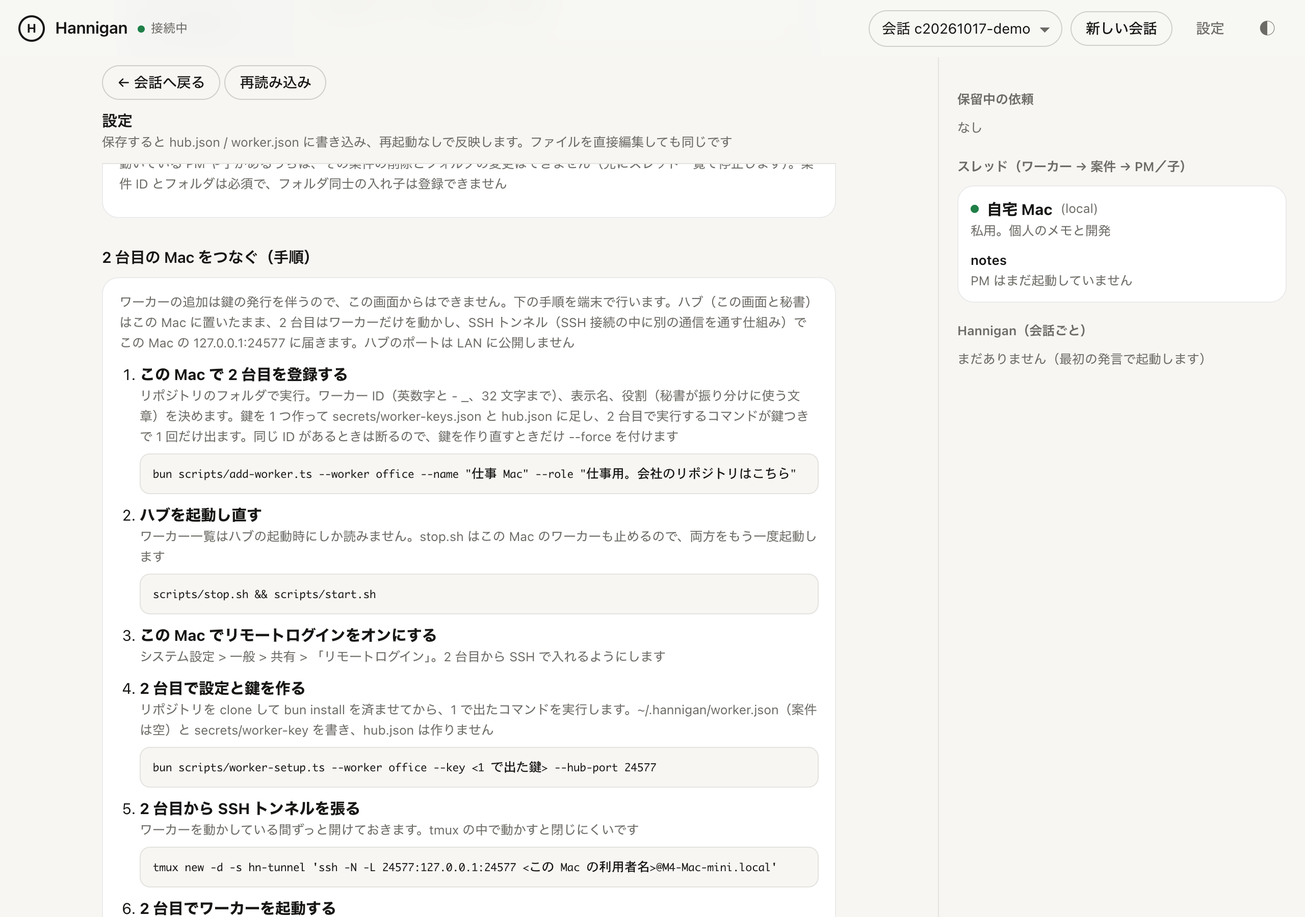
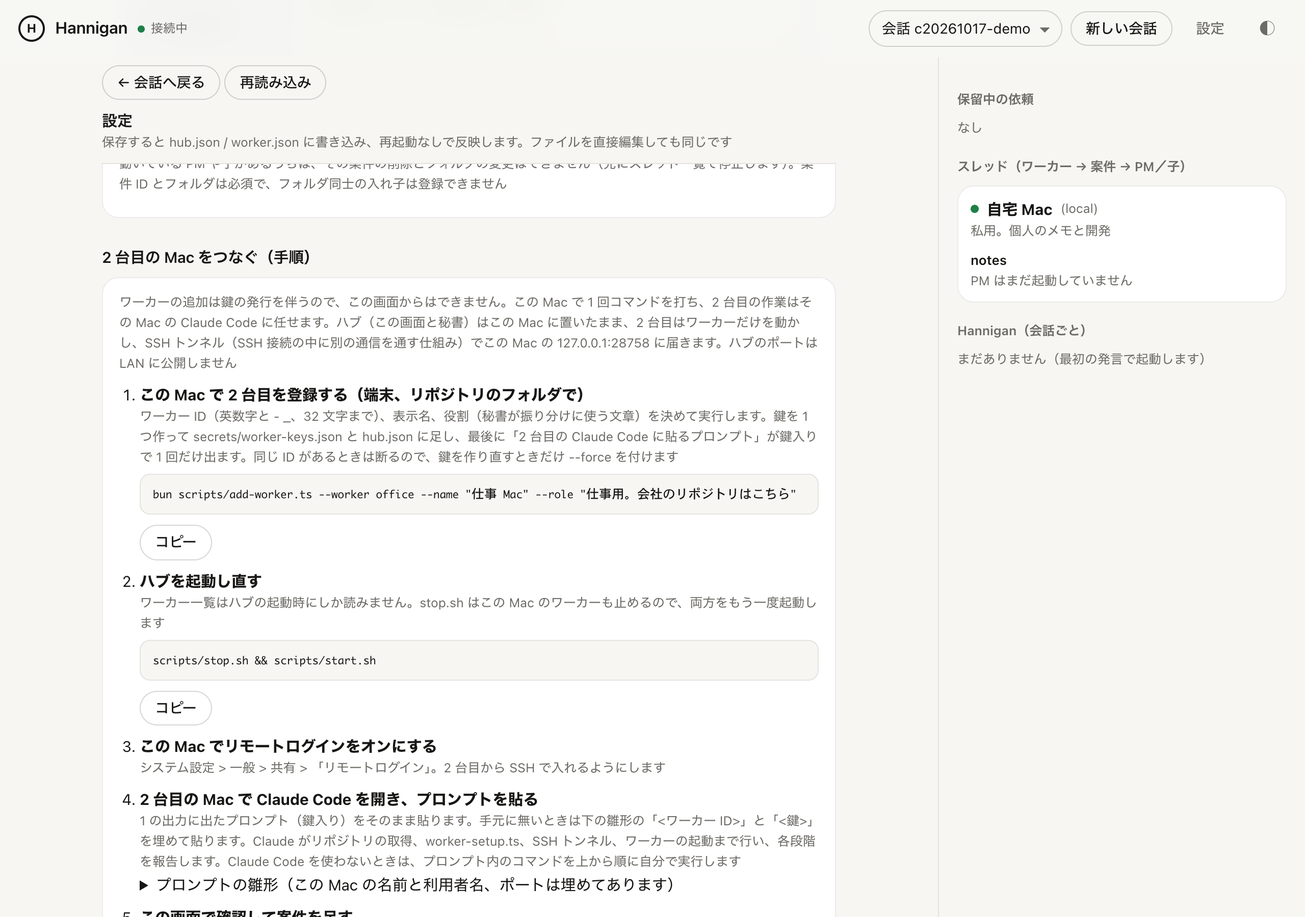
Phase 3j: 2 台目の設定を、その Mac の Claude Code に貼るプロンプトで任せる
- shared/second-mac-prompt.ts: 2 台目の Claude Code 向けプロンプト。リポジトリ取得、worker-setup.ts、SSH の疎通確認（鍵認証の案内）、
  tmux での SSH トンネル、/health の確認、start.sh worker、ログ確認、報告まで。sudo・鍵生成・削除は実行前に確認。やらないことも明記
- scripts/add-worker.ts は最後に鍵入りのプロンプトを 1 回だけ表示する
- GET /api/settings に second_mac（ホスト名・利用者名・ポート・雛形）を追加。雛形の ID と鍵はプレースホルダのまま
- 設定画面の手順カードを、1 台目のコマンド → ハブ再起動 → リモートログイン → 2 台目の Claude にプロンプトを貼る → 画面で確認、に組み直し、
  コマンドと雛形に「コピー」ボタンを付けた
- 単体 second-mac-prompt.test.ts を追加（105 件通過）、設定の通し 8 件通過。マニュアル 11 章・設計書 01 §25・CHANGELOG 3j を更新

diff --git a/web/index.html b/web/index.html
@@ -564,33 +564,40 @@ function loadSettings() {
     renderSecondMacGuide(root, r);
   });
 }
-// how to add another Mac as a worker (Phase 3: ssh tunnel + a key issued on this Mac; docs/manual 11 章)
+// how to add another Mac as a worker (Phase 3): a key issued on this Mac, then Claude Code on the other Mac does the
+// rest from a prompt (shared/second-mac-prompt.ts; docs/manual 11 章)
+function copyBtn(getText) {
+  const b = el('button', null, 'コピー'); b.type = 'button';
+  b.onclick = () => { navigator.clipboard.writeText(getText()).then(() => { b.textContent = 'コピーしました'; setTimeout(() => { b.textContent = 'コピー'; }, 1500); }, () => { b.textContent = 'コピーできませんでした（手で選択してください）'; }); };
+  return b;
+}
 function renderSecondMacGuide(root, r) {
-  const port = (r.fixed && r.fixed.listen && r.fixed.listen.port) || 8800;
-  const hn = r.fixed && r.fixed.hostname; const host = hn ? (hn.includes('.') ? hn : hn + '.local') : '<この Mac のホスト名か IP>';
+  const sm = r.second_mac || {};
+  const port = sm.port || (r.fixed && r.fixed.listen && r.fixed.listen.port) || 8800;
   root.append(el('h2', null, '2 台目の Mac をつなぐ（手順）'));
   const c = el('div', 'card guide');
-  c.append(el('div', 'role', 'ワーカーの追加は鍵の発行を伴うので、この画面からはできません。下の手順を端末で行います。ハブ（この画面と秘書）はこの Mac に置いたまま、2 台目はワーカーだけを動かし、SSH トンネル（SSH 接続の中に別の通信を通す仕組み）でこの Mac の 127.0.0.1:' + port + ' に届きます。ハブのポートは LAN に公開しません'));
-  const step = (title, body, cmd) => { const li = el('li'); li.append(el('b', null, title), el('div', 'hint', body)); if (cmd) li.append(el('pre', null, cmd)); return li; };
+  c.append(el('div', 'role', `ワーカーの追加は鍵の発行を伴うので、この画面からはできません。この Mac で 1 回コマンドを打ち、2 台目の作業はその Mac の Claude Code に任せます。ハブ（この画面と秘書）はこの Mac に置いたまま、2 台目はワーカーだけを動かし、SSH トンネル（SSH 接続の中に別の通信を通す仕組み）でこの Mac の 127.0.0.1:${port} に届きます。ハブのポートは LAN に公開しません`));
+  const step = (title, body, cmd) => { const li = el('li'); li.append(el('b', null, title), el('div', 'hint', body)); if (cmd) { const pre = el('pre', null, cmd); li.append(pre); const bb = el('div', 'btns'); bb.append(copyBtn(() => cmd)); li.append(bb); } return li; };
   const a = el('ol');
+  const addCmd = 'bun scripts/add-worker.ts --worker office --name "仕事 Mac" --role "仕事用。会社のリポジトリはこちら"';
   a.append(
-    step('この Mac で 2 台目を登録する', 'リポジトリのフォルダで実行。ワーカー ID（英数字と - _、32 文字まで）、表示名、役割（秘書が振り分けに使う文章）を決めます。鍵を 1 つ作って secrets/worker-keys.json と hub.json に足し、2 台目で実行するコマンドが鍵つきで 1 回だけ出ます。同じ ID があるときは断るので、鍵を作り直すときだけ --force を付けます',
-      'bun scripts/add-worker.ts --worker office --name "仕事 Mac" --role "仕事用。会社のリポジトリはこちら"'),
-    step('ハブを起動し直す', 'ワーカー一覧はハブの起動時にしか読みません。stop.sh はこの Mac のワーカーも止めるので、両方をもう一度起動します',
-      'scripts/stop.sh && scripts/start.sh'),
+    step('この Mac で 2 台目を登録する（端末、リポジトリのフォルダで）', 'ワーカー ID（英数字と - _、32 文字まで）、表示名、役割（秘書が振り分けに使う文章）を決めて実行します。鍵を 1 つ作って secrets/worker-keys.json と hub.json に足し、最後に「2 台目の Claude Code に貼るプロンプト」が鍵入りで 1 回だけ出ます。同じ ID があるときは断るので、鍵を作り直すときだけ --force を付けます', addCmd),
+    step('ハブを起動し直す', 'ワーカー一覧はハブの起動時にしか読みません。stop.sh はこの Mac のワーカーも止めるので、両方をもう一度起動します', 'scripts/stop.sh && scripts/start.sh'),
     step('この Mac でリモートログインをオンにする', 'システム設定 > 一般 > 共有 > 「リモートログイン」。2 台目から SSH で入れるようにします'),
-    step('2 台目で設定と鍵を作る', 'リポジトリを clone して bun install を済ませてから、1 で出たコマンドを実行します。~/.hannigan/worker.json（案件は空）と secrets/worker-key を書き、hub.json は作りません',
-      `bun scripts/worker-setup.ts --worker office --key <1 で出た鍵> --hub-port ${port}`),
-    step('2 台目から SSH トンネルを張る', 'ワーカーを動かしている間ずっと開けておきます。tmux の中で動かすと閉じにくいです',
-      `tmux new -d -s hn-tunnel 'ssh -N -L ${port}:127.0.0.1:${port} <この Mac の利用者名>@${host}'`),
-    step('2 台目でワーカーを起動する', 'worker.json と鍵があれば初期設定は作らないので、2 台目に hub.json は要りません',
-      'scripts/start.sh worker'),
-    step('この画面で確認して案件を足す', '右の「スレッド」に 2 台目のワーカーが表示名で、緑の点つきで出れば接続済み。「再読み込み」するとこの設定画面に 2 台目の欄が出るので、そこから案件フォルダ（2 台目の中の場所）を登録します。以後は秘書が「役割」と「振り分けの判断基準」を見て使い分けます'),
   );
+  // step 4: the prompt for Claude Code on the other Mac
+  const li = el('li'); li.append(el('b', null, '2 台目の Mac で Claude Code を開き、プロンプトを貼る'),
+    el('div', 'hint', `1 の出力に出たプロンプト（鍵入り）をそのまま貼ります。手元に無いときは下の雛形の「${'<ワーカー ID>'}」と「${'<鍵>'}」を埋めて貼ります。Claude がリポジトリの取得、worker-setup.ts、SSH トンネル、ワーカーの起動まで行い、各段階を報告します。Claude Code を使わないときは、プロンプト内のコマンドを上から順に自分で実行します`));
+  const det = el('details'); det.append(el('summary', null, 'プロンプトの雛形（この Mac の名前と利用者名、ポートは埋めてあります）'));
+  const pre = el('pre', null, sm.prompt_template || '（ハブから雛形を取得できませんでした。「再読み込み」してください）'); det.append(pre);
+  const bb = el('div', 'btns'); bb.append(copyBtn(() => sm.prompt_template || '')); det.append(bb);
+  li.append(det); a.append(li);
+  a.append(step('この画面で確認して案件を足す', '右の「スレッド」に 2 台目のワーカーが表示名で、緑の点つきで出れば接続済み。「再読み込み」するとこの設定画面に 2 台目の欄が出るので、そこから案件フォルダ（2 台目の中の場所）を登録します。以後は秘書が「役割」と「振り分けの判断基準」を見て使い分けます'));
   c.append(a);
-  c.append(el('div', 'hint', '困ったとき: 2 台目が未接続のままなら、トンネルの ssh が生きているか、2 台目の ~/.hannigan/logs/worker.log に connected to hub が出ているかを見ます。この Mac の hub.log に worker auth rejected が出たら鍵違いなので、1 を --force で作り直して 4 を --force で入れ直します。一覧に出ないときは 2 のハブの起動し直しを確かめます。この方式は Phase 3 のローカル実地テスト用で、Phase 4 では VPS 上のハブに WSS でつなぎ、鍵はペアリングコードで交換します'));
+  c.append(el('div', 'hint', `困ったとき: 2 台目が未接続のままなら、2 台目で tmux セッション hn-tunnel の ssh が生きているか、~/.hannigan/logs/worker.log に connected to hub が出ているかを 2 台目の Claude に確かめさせます。この Mac の hub.log に worker auth rejected が出たら鍵違いなので、1 を --force で作り直して新しいプロンプトを貼り直します。一覧に出ないときは 2 のハブの起動し直しを確かめます。この方式は Phase 3 のローカル実地テスト用で、Phase 4 では VPS 上のハブに WSS でつなぎ、鍵はペアリングコードで交換します`));
   root.append(c);
 }
+
 // who the person talks to: name, character, how it addresses them (hub.json secretary.persona, 01 §3.1)
 function renderPersonaSettings(root, r) {
   const h = r.hub; const p = h.secretary.persona || {};

diff --git a/shared/second-mac-prompt.ts b/shared/second-mac-prompt.ts
@@ -1,0 +1,45 @@
+// The prompt a person pastes into Claude Code on a second Mac so that Claude sets that Mac up as a worker
+// (Phase 3, docs/design/01-config-schema.md §8.1; manual 11 章). Used by scripts/add-worker.ts (key filled in,
+// printed once) and by the hub's settings screen (template with placeholders). Pure text, no I/O.
+
+export const REPO_URL = 'https://github.com/FoundD-oka/pj_Hannigan.git'
+
+export const PLACEHOLDER_ID = '<ワーカー ID>'
+export const PLACEHOLDER_KEY = '<鍵>'
+
+export type SecondMacPromptInput = {
+  worker: string // worker id, or PLACEHOLDER_ID
+  key: string // the key, or PLACEHOLDER_KEY
+  hubPort: number
+  hubHost: string // host name (with .local) or IP of the hub Mac
+  hubUser: string // login name on the hub Mac
+  repoUrl?: string
+}
+
+export function secondMacPrompt(i: SecondMacPromptInput): string {
+  const repo = i.repoUrl ?? REPO_URL
+  const p = i.hubPort
+  const hub = `${i.hubUser}@${i.hubHost}`
+  return [
+    `この Mac を Hannigan のワーカー（作業 Mac）として設定してください。ハブ（WebChat と秘書）は別の Mac「${i.hubHost}」で動いていて、この Mac からは SSH トンネルで ${p} 番ポートをつなぎます。次を順に行い、各段階の結果を短く報告してください。sudo が要る操作、鍵の生成、ファイルの削除は実行前に確認を取ってください。`,
+    '',
+    '前提の確認',
+    '- `bun --version`（1.3 以上）、`tmux -V`、`claude --version`、`ssh -V` が通ること。足りないものは導入手順を示して、そこで止まる',
+    '',
+    '手順',
+    `1. リポジトリ: \`git clone ${repo} ~/pj-Hannigan\`（既にあれば \`git -C ~/pj-Hannigan pull\`）。以後は \`~/pj-Hannigan\` で \`bun install\``,
+    `2. 設定と鍵: \`bun scripts/worker-setup.ts --worker ${i.worker} --key ${i.key} --hub-port ${p}\`。~/.hannigan/worker.json（案件は空）と ~/.hannigan/secrets/worker-key を書く。hub.json は作らない。鍵は他のファイル・ログ・返答に書かない`,
+    `3. SSH の疎通: \`ssh -o BatchMode=yes -o ConnectTimeout=5 ${hub} true\` で確認する。鍵認証が無ければ \`ssh-keygen -t ed25519\` と \`ssh-copy-id ${hub}\` の手順を示す（パスワードは私が入力する）。つながらなければ、ハブ側 Mac の「システム設定 > 一般 > 共有 > リモートログイン」をオンにするよう私に伝えて止まる`,
+    `4. トンネル: \`tmux new -d -s hn-tunnel 'ssh -N -o ServerAliveInterval=30 -o ExitOnForwardFailure=yes -L ${p}:127.0.0.1:${p} ${hub}'\`。数秒待って \`curl -s http://127.0.0.1:${p}/health\` が \`{"ok":true}\` を返すことを確認する`,
+    '5. ワーカーの起動: `scripts/start.sh worker`。`~/.hannigan/logs/worker.log` に `connected to hub` が出れば成功。`worker auth rejected` が出たら鍵違いなので、ハブ側で鍵を作り直す必要があると私に伝える',
+    '6. 報告: 各段階の結果、変更したファイル、残っている問題をまとめる。案件の登録はハブ側の WebChat の設定画面で行うので、ここではしない',
+    '',
+    'やらないこと',
+    '- hub.json を作らない。ハブのポートを LAN に公開しない（`listen` を変えない）。渡した鍵を書き換えない。この Mac で Hannigan のハブや秘書を起動しない',
+    '- トンネルの tmux セッション `hn-tunnel` はワーカーを動かす間ずっと残す。終了は `tmux kill-session -t hn-tunnel`',
+  ].join('\n')
+}
+
+export function secondMacPromptTemplate(i: Omit<SecondMacPromptInput, 'worker' | 'key'>): string {
+  return secondMacPrompt({ ...i, worker: PLACEHOLDER_ID, key: PLACEHOLDER_KEY })
+}

diff --git a/hub/hub.ts b/hub/hub.ts
@@ -5,7 +5,7 @@
 // ledger.ts (shared work items), threads.ts (WebChat thread view), secretary.ts (tools and instructions).
 import type { Server as BunServer, ServerWebSocket } from 'bun'
 import { readFileSync } from 'fs'
-import { hostname } from 'os'
+import { hostname, userInfo } from 'os'
 import { join, sep } from 'path'
 import { canonical, ConfigError, ID_RE, loadHubConfig } from '../shared/config.ts'
 import {
@@ -39,6 +39,7 @@ import { OfflineQueue } from './offline-queue.ts'
 import { RequestStore, type RequestState } from './requests.ts'
 import { SECRETARY_TOOLS, secretaryInstructions } from './secretary.ts'
 import { planHubSettings, SettingsError } from './settings.ts'
+import { secondMacPromptTemplate } from '../shared/second-mac-prompt.ts'
 import { buildThreads, coverageOf, nextCoverage, threadHistory, type Coverage } from './threads.ts'
 
 let cfg: ReturnType<typeof loadHubConfig>
@@ -1282,12 +1283,19 @@ async function settingsView() {
     // shown for reference; changing them means editing hub.json / the secrets and restarting
     fixed: {
       listen: { host: cfg.listen.host, port: cfg.listen.port, editable: false },
-      // for the "2 台目の Mac" guide in the screen: the ssh tunnel example names this Mac (not recorded anywhere)
-      hostname: hostname(),
       public_url: { value: cfg.public_url, editable: false },
       secrets: { editable: false },
     },
+    // the "2 台目の Mac" guide: this Mac's name and login for the ssh tunnel, and the prompt for Claude Code on the
+    // other Mac with the worker id and key left as placeholders (the real key only ever leaves add-worker.ts). Not recorded.
+    second_mac: secondMac(),
   }
+}
+function secondMac() {
+  const hn = hostname()
+  const hubHost = hn.includes('.') ? hn : `${hn}.local`
+  const hubUser = userInfo().username
+  return { hostname: hubHost, user: hubUser, port: cfg.listen.port, prompt_template: secondMacPromptTemplate({ hubPort: cfg.listen.port, hubHost, hubUser }) }
 }
 
 function saveHubSettings(input: unknown): Response {

diff --git a/test/unit/second-mac-prompt.test.ts b/test/unit/second-mac-prompt.test.ts
@@ -1,0 +1,34 @@
+// shared/second-mac-prompt.ts: the prompt for Claude Code on the second Mac (add-worker.ts prints it with the key,
+// the settings screen shows the template with placeholders)
+import { expect, test } from 'bun:test'
+import { PLACEHOLDER_ID, PLACEHOLDER_KEY, REPO_URL, secondMacPrompt, secondMacPromptTemplate } from '../../shared/second-mac-prompt.ts'
+
+const base = { hubPort: 8800, hubHost: 'studio.local', hubUser: 'taro' }
+
+test('the prompt carries the worker id, key, port, hub login, repository and the commands Claude must run', () => {
+  const p = secondMacPrompt({ ...base, worker: 'office', key: 'k'.repeat(64) })
+  expect(p).toContain(`git clone ${REPO_URL} ~/pj-Hannigan`)
+  expect(p).toContain(`bun scripts/worker-setup.ts --worker office --key ${'k'.repeat(64)} --hub-port 8800`)
+  expect(p).toContain('ssh -o BatchMode=yes -o ConnectTimeout=5 taro@studio.local true')
+  expect(p).toContain("-L 8800:127.0.0.1:8800 taro@studio.local'")
+  expect(p).toContain('curl -s http://127.0.0.1:8800/health')
+  expect(p).toContain('scripts/start.sh worker')
+  expect(p).toContain('connected to hub')
+  expect(p).toContain('hub.json を作らない')
+  expect(p).toContain('studio.local')
+})
+
+test('the template keeps the id and key as placeholders and never contains a real key', () => {
+  const t = secondMacPromptTemplate(base)
+  expect(t).toContain(`--worker ${PLACEHOLDER_ID} --key ${PLACEHOLDER_KEY} --hub-port 8800`)
+  expect(t).not.toMatch(/[0-9a-f]{64}/)
+  // same text otherwise
+  expect(t.replace(PLACEHOLDER_ID, 'office').replace(PLACEHOLDER_KEY, 'K')).toBe(secondMacPrompt({ ...base, worker: 'office', key: 'K' }))
+})
+
+test('another repository url and a plain ip work', () => {
+  const p = secondMacPrompt({ worker: 'w', key: 'K', hubPort: 9000, hubHost: '192.168.1.20', hubUser: 'me', repoUrl: 'git@example.com:x/y.git' })
+  expect(p).toContain('git clone git@example.com:x/y.git')
+  expect(p).toContain('me@192.168.1.20')
+  expect(p).toContain('-L 9000:127.0.0.1:9000')
+})

diff --git a/scripts/add-worker.ts b/scripts/add-worker.ts
@@ -11,6 +11,8 @@ import { join } from 'path'
 import { hanniganHome, HUB_CONFIG_VERSION, HubConfigSchema, ID_RE, loadHubConfig } from '../shared/config.ts'
 import { newToken, readWorkerKeys, writeSecret } from '../shared/secrets.ts'
 import { readJson, writeJsonAtomic } from '../shared/util.ts'
+import { secondMacPrompt } from '../shared/second-mac-prompt.ts'
+import { hostname, userInfo } from 'os'
 
 export class AddWorkerError extends Error {}
 
@@ -100,11 +102,14 @@ function main(): void {
   out('1. restart the hub on this Mac (workers[] is read at start; stop.sh also stops this Mac\'s worker, so start both again):')
   out('     scripts/stop.sh && scripts/start.sh')
   out()
-  out('2. on the other Mac (clone the repository, run `bun install`), then:')
-  out(`     bun scripts/worker-setup.ts --worker ${worker} --key ${r.key} --hub-port ${r.hubPort}`)
+  out('2. on the other Mac, open Claude Code and paste the prompt below (it contains the key; it is shown only this once,')
+  out('   is stored in secrets/worker-keys.json on this Mac and goes to no log). Claude there clones the repository, runs')
+  out('   worker-setup.ts, opens the SSH tunnel and starts the worker. Without Claude, run the commands in the prompt yourself.')
   out()
-  out('   The key above is shown only this once (it is stored in secrets/worker-keys.json on this Mac; it goes to no log).')
-  out('   worker-setup.ts prints the SSH tunnel to open and `scripts/start.sh worker`.')
+  const hn = hostname()
+  out('----- 8< ----- paste into Claude Code on the other Mac -----')
+  out(secondMacPrompt({ worker, key: r.key, hubPort: r.hubPort, hubHost: hn.includes('.') ? hn : `${hn}.local`, hubUser: userInfo().username }))
+  out('----- 8< -----')
 }
 
 if (import.meta.main) main()

diff --git a/docs/manual/README.md b/docs/manual/README.md
@@ -202,7 +202,7 @@ scripts/stop.sh --sessions   # 秘書・PM・子も /exit で終える
 
 同じ LAN にあるもう 1 台の Mac を、作業用のワーカーとして足す手順。ハブ（WebChat と秘書）は 1 台目に置いたまま、2 台目はワーカーだけを動かす。2 台目の通信は SSH トンネル（SSH 接続の中に別の通信を通す仕組み）で 1 台目の `127.0.0.1:8800` に届くので、ハブのポートを LAN に公開しない。
 
-同じ手順は WebChat の設定画面のいちばん下「2 台目の Mac をつなぐ（手順）」にも出る。ポートとこの Mac のホスト名を埋めたコマンドが並ぶので、端末に貼って使える。
+同じ手順は WebChat の設定画面のいちばん下「2 台目の Mac をつなぐ（手順）」にも出る。1 台目で打つコマンドと、2 台目の Claude Code に貼るプロンプトの雛形（ポート、この Mac のホスト名と利用者名は埋めてある）が「コピー」ボタンつきで並ぶ。
 
 ![設定画面（2 台目の手順）](images/17-settings-second-mac.png)
 
@@ -224,25 +224,18 @@ scripts/stop.sh && scripts/start.sh
 
 **2 台目（ワーカー側）で**
 
-リポジトリを clone して `bun install` を済ませてから、1 台目に出たコマンドを実行する。
+2 台目の作業は、その Mac の Claude Code に任せる。1 台目の `add-worker.ts` の出力の最後に「2 台目の Claude Code に貼るプロンプト」が鍵入りで出るので、2 台目で Claude Code を開いて、そのまま貼る。プロンプトの雛形は WebChat の設定画面の手順カード（4 番目）にもあり、1 台目のホスト名・利用者名・ポートは埋めてある。手元に鍵入りの出力が無いときは、雛形の `<ワーカー ID>` と `<鍵>` を埋めて貼る。
 
-```bash
-bun scripts/worker-setup.ts --worker lime --key <1 台目に出た鍵> --hub-port 8800
-```
+Claude は次を順に行い、各段階を報告する。sudo が要る操作や鍵の生成は実行前に確認を取る。
 
-`~/.hannigan/worker.json`（案件は空、接続先は `ws://127.0.0.1:8800/ws/worker`）と `~/.hannigan/secrets/worker-key` を書く。`hub.json` は作らない。既にあるファイルは `--force` が無ければ残す。2 台目でもポート 8801 を別の用途に使っているなら `--local-port` で変える。
+1. リポジトリを `~/pj-Hannigan` に取得して `bun install`
+2. `bun scripts/worker-setup.ts --worker <ID> --key <鍵> --hub-port 8800` で `~/.hannigan/worker.json`（案件は空）と `secrets/worker-key` を書く。`hub.json` は作らない
+3. `ssh -o BatchMode=yes <利用者名>@<1 台目>` で疎通を確かめる。鍵認証が無ければ `ssh-keygen` と `ssh-copy-id` を案内する（パスワードはあなたが入力する）
+4. tmux セッション `hn-tunnel` で SSH トンネル（`-L 8800:127.0.0.1:8800`、`ServerAliveInterval` つき）を張り、`curl http://127.0.0.1:8800/health` で `{"ok":true}` を確かめる
+5. `scripts/start.sh worker` で起動し、`~/.hannigan/logs/worker.log` の `connected to hub` を確かめる
+6. 結果と変更したファイル、残った問題を報告する
 
-SSH トンネルを張り、別の端末でワーカーを起動する。トンネルはワーカーを動かしている間ずっと開けておく。
-
-```bash
-ssh -N -L 8800:127.0.0.1:8800 <1 台目の利用者名>@<1 台目のホスト名か IP>
-```
-
-```bash
-scripts/start.sh worker
-```
-
-`start.sh worker` は `worker.json` と鍵があれば初期設定を作らないので、2 台目に `hub.json` は要らない。
+Claude Code を使わないときは、プロンプトの中のコマンドを上から順に自分で実行すれば同じになる。プロンプトの本文は [shared/second-mac-prompt.ts](../../shared/second-mac-prompt.ts) にある。
 
 **確認と案件の登録**
 
@@ -250,8 +243,8 @@ scripts/start.sh worker
 
 | 症状 | 見る場所と対処 |
 | --- | --- |
-| 2 台目が「未接続」のまま | トンネルの `ssh` が生きているか。2 台目の `~/.hannigan/logs/worker.log` に `connected to hub` が出ているか |
-| 1 台目の `hub.log` に `worker auth rejected` | 鍵が違う。1 台目で `add-worker.ts --worker <ID> --force` で作り直し、2 台目で `worker-setup.ts ... --force` を入れ直す |
+| 2 台目が「未接続」のまま | 2 台目の Claude に、tmux セッション `hn-tunnel` の `ssh` が生きているか、`~/.hannigan/logs/worker.log` に `connected to hub` が出ているかを確かめさせる |
+| 1 台目の `hub.log` に `worker auth rejected` | 鍵が違う。1 台目で `add-worker.ts --worker <ID> --force` で作り直し、出てきた新しいプロンプトを 2 台目の Claude に貼り直す（`worker-setup.ts` には `--force` を付けるよう伝える） |
 | 2 台目のワーカーが一覧に出ない | 1 台目のハブを起動し直したか（`stop.sh` と `start.sh`） |
 
 この方式は Phase 3 のローカル実地テスト用。Phase 4 では VPS 上のハブに WSS でつなぎ、鍵はペアリングコードで交換する。

diff --git a/docs/design/CHANGELOG.md b/docs/design/CHANGELOG.md
@@ -196,6 +196,12 @@
 - 機能と要素の ID・クラスは変えていない（承認カード `ap-*`、`#settingsBtn`、`#threads .row`、`.proj-edit.new` など撮影スクリプトと設定画面が頼るもの）。設定項目の補足文は入力欄の下に回り込ませた
 - `scripts/manual-shots.ts` に `--fake-chat`（偽 Claude で会話・スレッド・配色・スマホ幅を撮る）を追加。マニュアル 1〜2 章の画面を撮り直し、3 章以降は前の見た目のまま（操作位置と文言は同じ）
 
+## 3j 2 台目の設定を 2 台目の Claude Code に任せる — 2026-10-18
+
+- 2 台目の Mac 側の手順を「その Mac の Claude Code に貼るプロンプト」にした（`shared/second-mac-prompt.ts`）。リポジトリの取得、`worker-setup.ts`、SSH の疎通確認（鍵認証の案内つき）、tmux での SSH トンネル、`/health` の確認、`start.sh worker`、ログの確認、報告までを Claude が行い、sudo・鍵生成・削除は実行前に確認を取る。やらないこと（hub.json を作らない、ポートを公開しない、鍵を書き換えない）も書いた
+- `scripts/add-worker.ts` は最後に鍵入りのプロンプトを 1 回だけ表示する。ハブの `GET /api/settings` は `second_mac`（ホスト名・利用者名・ポート・雛形）を返し、設定画面の手順カードは 1 台目のコマンドと雛形を「コピー」ボタンつきで示す。雛形に本物の鍵は入らない
+- 単体 `second-mac-prompt.test.ts`（値の埋め込み、雛形に鍵が無いこと）。実機の 2 台目では未確認
+
 ## 変更していないこと
 
 - 既存の Channels/ブリッジ/セッション管理/イベント・承認プロトコルの基本設計。
